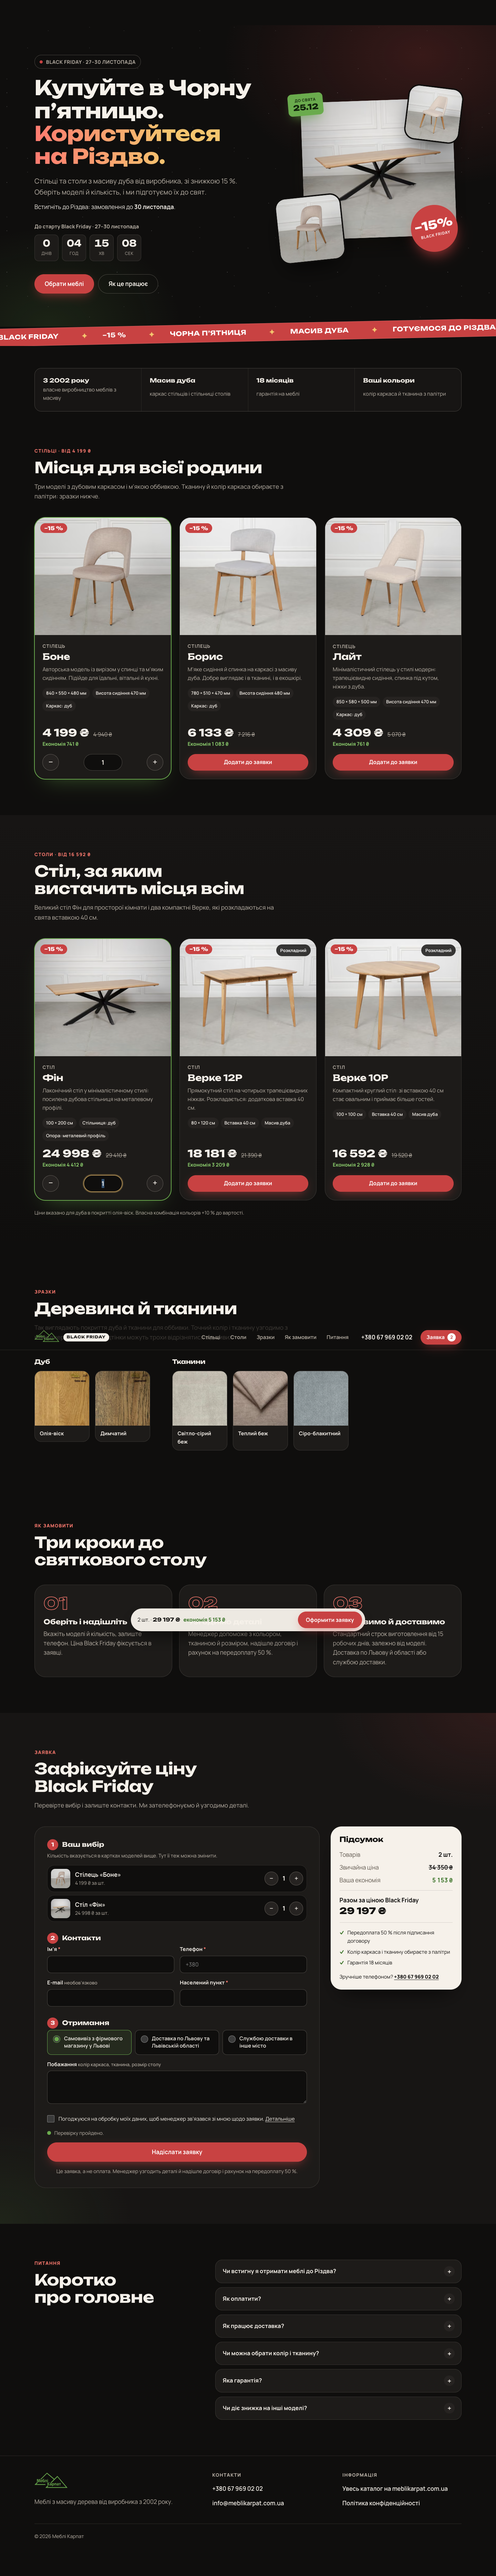
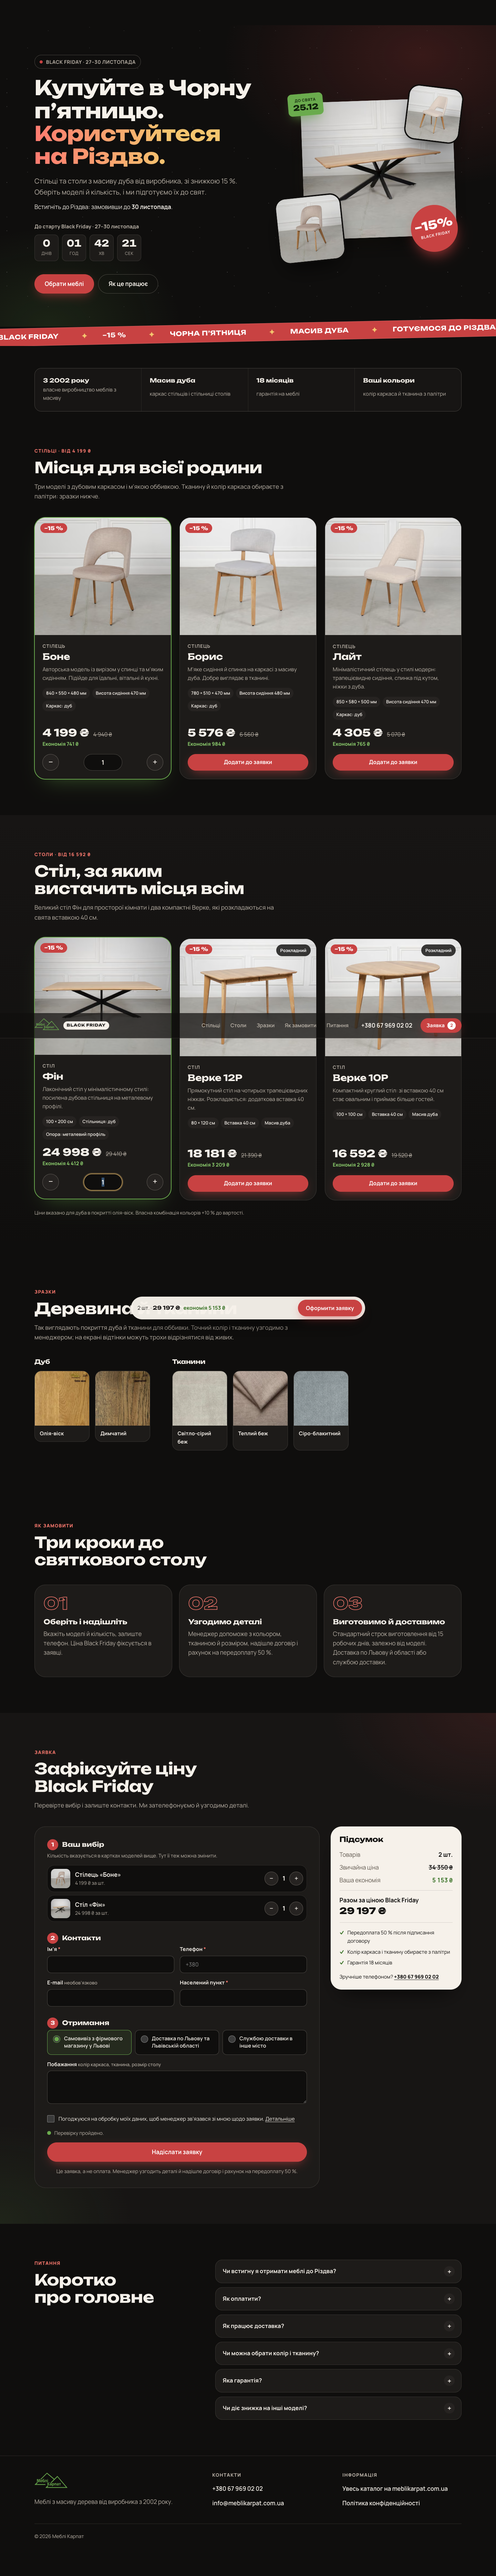
Landing copy fixes, Open Graph image for link previews, SITE_URL build setting
- Hero deadline: "замовивши до 30 листопада"; Борис description without leatherette
- og.jpg (1080x1080) and og/twitter meta tags in Base layout
- astro site is read from SITE_URL at build time (default meblikarpat.com.ua)

diff --git a/mk BF landing/src/data/offer.ts b/mk BF landing/src/data/offer.ts
@@ -65,7 +65,7 @@ export const products: Product[] = [
     category: 'chairs',
     name: 'Борис',
     kind: 'Стілець',
-    descriptor: 'М’яке сидіння й спинка на каркасі з масиву дуба. Добре виглядає і в тканині, і в екошкірі.',
+    descriptor: 'М’яке сидіння й спинка на каркасі з масиву дуба. Добре виглядає в тканині.',
     specs: ['780 × 510 × 470 мм', 'Висота сидіння 480 мм', 'Каркас: дуб'],
     regular: 6560,
     image: 'boris-1.jpg',
